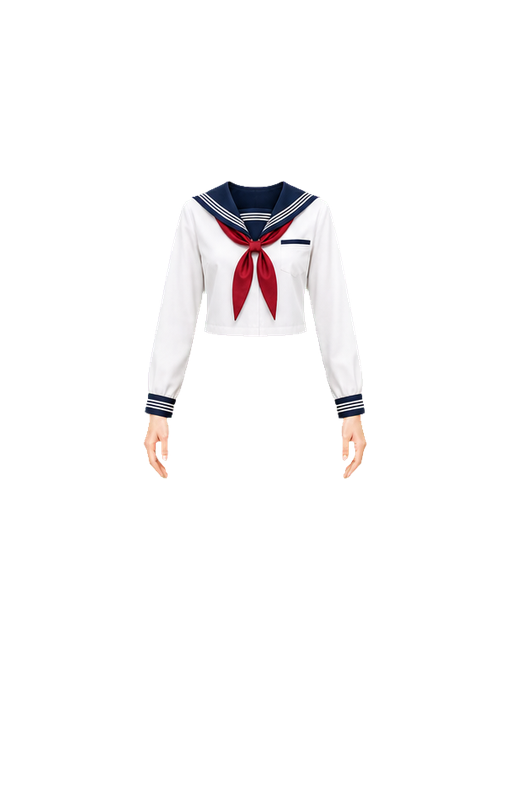
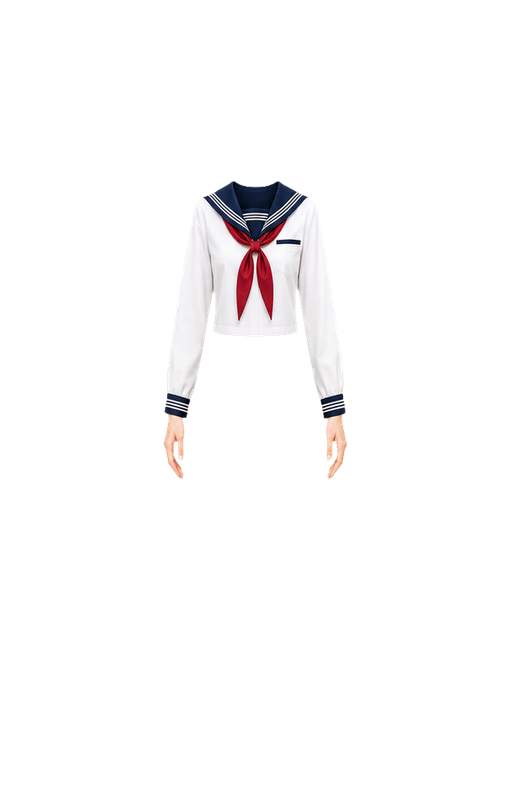
Validate and align sailor outfit assembly

Changed region(s): [[0.2812, 0.2188, 0.7188, 0.5938]]

diff --git a/tools/validate_modular_outfit.py b/tools/validate_modular_outfit.py
@@ -1,0 +1,168 @@
+#!/usr/bin/env python3
+"""Validate a modular wardrobe outfit against its direct-render reference model.
+
+The check intentionally combines coordinate anchors with alpha-pixel geometry:
+module joins must overlap, the assembled silhouette must not contain detached
+fragments, and the normalized silhouette must remain close to the direct model.
+"""
+
+from __future__ import annotations
+
+import argparse
+import json
+from collections import deque
+from pathlib import Path
+
+from PIL import Image
+
+
+ROOT = Path(__file__).resolve().parents[1]
+MODULES = ROOT / "rewards/wardrobe/modular-v3/modules"
+REFERENCE = ROOT / "rewards/wardrobe/modular-v3/reference/female-g05-direct-model.png"
+PARTS = {
+    "head": MODULES / "female-head-base.png",
+    "upper": MODULES / "female-g05-upper.png",
+    "lower": MODULES / "female-g05-lower.png",
+    "shoes": MODULES / "female-g05-shoes.png",
+}
+CANVAS = (512, 800)
+
+
+def alpha_mask(image: Image.Image, threshold: int = 20) -> bytearray:
+    return bytearray(
+        1 if value > threshold else 0
+        for value in image.getchannel("A").get_flattened_data()
+    )
+
+
+def mask_bbox(mask: bytearray, width: int, height: int) -> tuple[int, int, int, int]:
+    points = [(index % width, index // width) for index, value in enumerate(mask) if value]
+    if not points:
+        raise ValueError("empty alpha mask")
+    xs, ys = zip(*points)
+    return min(xs), min(ys), max(xs) + 1, max(ys) + 1
+
+
+def component_sizes(mask: bytearray, width: int, height: int) -> list[int]:
+    visited = bytearray(width * height)
+    sizes: list[int] = []
+    for index, value in enumerate(mask):
+        if not value or visited[index]:
+            continue
+        visited[index] = 1
+        queue = deque([index])
+        size = 0
+        while queue:
+            current = queue.popleft()
+            size += 1
+            x, y = current % width, current // width
+            for nx in range(max(0, x - 1), min(width, x + 2)):
+                for ny in range(max(0, y - 1), min(height, y + 2)):
+                    neighbor = ny * width + nx
+                    if mask[neighbor] and not visited[neighbor]:
+                        visited[neighbor] = 1
+                        queue.append(neighbor)
+        sizes.append(size)
+    return sorted(sizes, reverse=True)
+
+
+def overlap_pixels(left: Image.Image, right: Image.Image) -> int:
+    left_mask = alpha_mask(left)
+    right_mask = alpha_mask(right)
+    return sum(1 for a, b in zip(left_mask, right_mask) if a and b)
+
+
+def normalize_reference(reference: Image.Image, target_bbox: tuple[int, int, int, int]) -> Image.Image:
+    source_bbox = reference.getchannel("A").getbbox()
+    if source_bbox is None:
+        raise ValueError("reference model has no visible pixels")
+    visible = reference.crop(source_bbox)
+    target_height = target_bbox[3] - target_bbox[1]
+    scale = target_height / visible.height
+    fitted = visible.resize(
+        (round(visible.width * scale), target_height),
+        Image.Resampling.LANCZOS,
+    )
+    canvas = Image.new("RGBA", CANVAS, (0, 0, 0, 0))
+    center_x = (target_bbox[0] + target_bbox[2]) // 2
+    canvas.alpha_composite(fitted, (center_x - fitted.width // 2, target_bbox[1]))
+    return canvas
+
+
+def silhouette_iou(left: Image.Image, right: Image.Image) -> float:
+    left_mask = alpha_mask(left)
+    right_mask = alpha_mask(right)
+    intersection = sum(1 for a, b in zip(left_mask, right_mask) if a and b)
+    union = sum(1 for a, b in zip(left_mask, right_mask) if a or b)
+    return intersection / union if union else 0.0
+
+
+def main() -> None:
+    parser = argparse.ArgumentParser()
+    parser.add_argument("--preview", type=Path, help="optional comparison preview output")
+    args = parser.parse_args()
+
+    layers = {name: Image.open(path).convert("RGBA") for name, path in PARTS.items()}
+    assembled = Image.new("RGBA", CANVAS, (0, 0, 0, 0))
+    for name in ("lower", "upper", "head", "shoes"):
+        assembled.alpha_composite(layers[name])
+
+    assembled_mask = alpha_mask(assembled)
+    assembled_bbox = mask_bbox(assembled_mask, *CANVAS)
+    reference = normalize_reference(Image.open(REFERENCE).convert("RGBA"), assembled_bbox)
+    reference_bbox = mask_bbox(alpha_mask(reference), *CANVAS)
+    components = component_sizes(assembled_mask, *CANVAS)
+    significant_components = [size for size in components if size >= 24]
+    overlaps = {
+        "neck": overlap_pixels(layers["head"], layers["upper"]),
+        "waist": overlap_pixels(layers["upper"], layers["lower"]),
+        "feet": overlap_pixels(layers["lower"], layers["shoes"]),
+    }
+    iou = silhouette_iou(assembled, reference)
+    center_delta = abs(
+        (assembled_bbox[0] + assembled_bbox[2]) / 2
+        - (reference_bbox[0] + reference_bbox[2]) / 2
+    )
+    width_ratio = (assembled_bbox[2] - assembled_bbox[0]) / (
+        reference_bbox[2] - reference_bbox[0]
+    )
+
+    checks = {
+        "single_connected_silhouette": len(significant_components) == 1,
+        "neck_join": overlaps["neck"] >= 100,
+        "waist_join": overlaps["waist"] >= 300,
+        "shoe_join": overlaps["feet"] >= 120,
+        "center_alignment": center_delta <= 2,
+        "width_ratio": 0.82 <= width_ratio <= 1.22,
+        "silhouette_similarity": iou >= 0.62,
+    }
+    report = {
+        "passed": all(checks.values()),
+        "checks": checks,
+        "coordinates": {
+            "assembled_bbox": assembled_bbox,
+            "reference_bbox": reference_bbox,
+            "center_delta_px": round(center_delta, 2),
+            "width_ratio": round(width_ratio, 4),
+        },
+        "pixels": {
+            "significant_components": significant_components,
+            "join_overlap": overlaps,
+            "silhouette_iou": round(iou, 4),
+        },
+    }
+    print(json.dumps(report, ensure_ascii=False, indent=2))
+
+    if args.preview:
+        preview = Image.new("RGBA", (CANVAS[0] * 2, CANVAS[1]), (28, 20, 54, 255))
+        preview.alpha_composite(reference, (0, 0))
+        preview.alpha_composite(assembled, (CANVAS[0], 0))
+        args.preview.parent.mkdir(parents=True, exist_ok=True)
+        preview.save(args.preview, optimize=True)
+
+    if not report["passed"]:
+        raise SystemExit(1)
+
+
+if __name__ == "__main__":
+    main()

diff --git a/tools/rebuild_wardrobe_product_assets.py b/tools/rebuild_wardrobe_product_assets.py
@@ -94,6 +94,16 @@ def rebuild_g05_lower() -> None:
     module.save(MODULES / "female-g05-lower-bare.png", optimize=True)
 
 
+def rebuild_g05_upper() -> None:
+    """Match the direct model's shoulder and hand-span coordinates."""
+    source = visible_crop(
+        Image.open(SOURCE / "female-g05-upper-rig-v1.png").convert("RGBA")
+    )
+    fitted = source.resize((185, source.height), Image.Resampling.LANCZOS)
+    upper = centered_canvas(fitted, CANVAS, 180)
+    upper.save(MODULES / "female-g05-upper.png", optimize=True)
+
+
 def rebuild_g05_shoes() -> None:
     """Align the loafers with the corrected sock-and-foot lower-body module."""
     source = Image.open(SOURCE / "female-g05-shoes-rig-v1.png").convert("RGBA")
@@ -119,6 +129,7 @@ def rebuild_bottom_product_art() -> None:
 
 
 if __name__ == "__main__":
+    rebuild_g05_upper()
     rebuild_g05_lower()
     rebuild_g05_shoes()
     rebuild_bottom_product_art()
